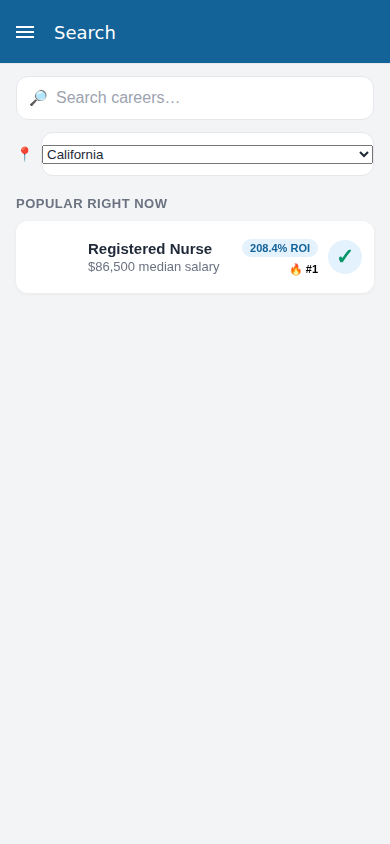
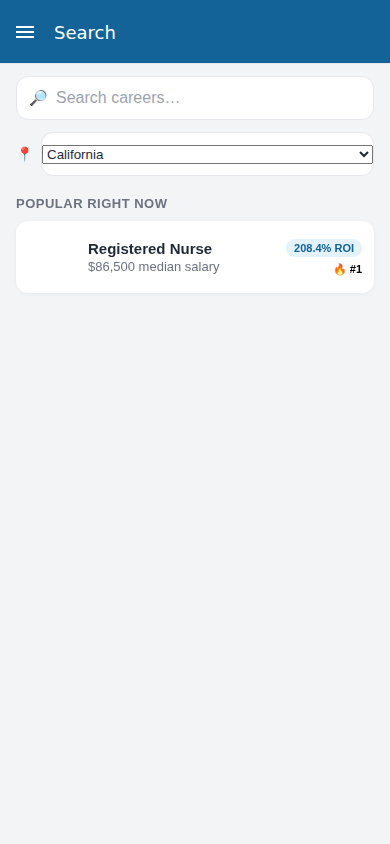
Move search interest action into details

Changed region(s): [[0.6154, 0.2773, 0.9231, 0.3389]]

diff --git a/client/src/screens/SearchScreen.tsx b/client/src/screens/SearchScreen.tsx
@@ -37,8 +37,7 @@ const SKELETON_ROWS = 5;
 const CareerResultRow: React.FC<{
   career: CareerROI;
   onPress: (career: CareerROI) => void;
-  onInterest: (career: CareerROI) => void;
-}> = ({ career, onPress, onInterest }) => {
+}> = ({ career, onPress }) => {
   const theme = useTheme();
   const [imageFailed, setImageFailed] = useState(false);
   const initial = career.occupation_name.charAt(0).toUpperCase();
@@ -47,7 +46,7 @@ const CareerResultRow: React.FC<{
     <View
       style={[styles.row, { backgroundColor: theme.colors.surface }, theme.shadows.subtle]}
     >
-      <TouchableOpacity style={styles.rowContent} onPress={() => onPress(career)} activeOpacity={0.7}>
+      <TouchableOpacity testID={`search-result-${career.id}`} style={styles.rowContent} onPress={() => onPress(career)} activeOpacity={0.7}>
         {imageFailed ? (
           <View style={[styles.thumb, styles.thumbFallback, { backgroundColor: theme.colors.primaryLight }]}>
             <Text style={[styles.thumbFallbackText, { color: theme.colors.primary }]}>{initial}</Text>
@@ -79,16 +78,6 @@ const CareerResultRow: React.FC<{
             </View>
           )}
         </View>
-      </TouchableOpacity>
-      <TouchableOpacity
-        testID={`search-interest-${career.id}`}
-        accessibilityLabel={`Express interest in ${career.occupation_name}`}
-        onPress={() => onInterest(career)}
-        style={[styles.interestButton, { backgroundColor: theme.colors.primaryLight }]}
-        activeOpacity={0.75}
-        hitSlop={{ top: 8, bottom: 8, left: 8, right: 8 }}
-      >
-        <Text style={[styles.interestIcon, { color: theme.colors.success }]}>✓</Text>
       </TouchableOpacity>
     </View>
   );
@@ -268,7 +257,17 @@ export const SearchScreen: React.FC = () => {
   if (detailCareer) {
     return (
       <View style={[styles.container, { backgroundColor: theme.colors.background }]}>
-        <CareerDetailView career={detailCareer} onClose={() => setDetailCareer(null)} />
+        <CareerDetailView
+          career={detailCareer}
+          onClose={() => setDetailCareer(null)}
+          onInterest={() => handleInterestPress(detailCareer)}
+        />
+        <FeedbackModal
+          visible={feedbackCareer !== null}
+          careerName={feedbackCareer?.occupation_name ?? ''}
+          onSubmit={handleFeedbackSubmit}
+          onClose={handleFeedbackClose}
+        />
       </View>
     );
   }
@@ -416,13 +415,13 @@ export const SearchScreen: React.FC = () => {
               </>
             ) : (
               popular.map(career => (
-                <CareerResultRow key={career.id} career={career} onPress={setDetailCareer} onInterest={handleInterestPress} />
+                <CareerResultRow key={career.id} career={career} onPress={setDetailCareer} />
               ))
             )}
           </View>
         ) : showResults ? (
           results!.map(career => (
-            <CareerResultRow key={career.id} career={career} onPress={handleResultPress} onInterest={handleInterestPress} />
+            <CareerResultRow key={career.id} career={career} onPress={handleResultPress} />
           ))
         ) : null}
       </ScrollView>
@@ -462,8 +461,6 @@ interface Styles {
   chipText: TextStyle;
   demandChip: ViewStyle;
   demandChipText: TextStyle;
-  interestButton: ViewStyle;
-  interestIcon: TextStyle;
 
   stateCard: ViewStyle;
   stateEmoji: TextStyle;
@@ -604,18 +601,6 @@ const styles = StyleSheet.create<Styles>({
   demandChipText: {
     fontSize: 11,
     fontWeight: '600',
-  },
-  interestButton: {
-    width: 34,
-    height: 34,
-    borderRadius: 17,
-    alignItems: 'center',
-    justifyContent: 'center',
-    marginLeft: 10,
-  },
-  interestIcon: {
-    fontSize: 22,
-    fontWeight: '700',
   },
   stateCard: {
     borderRadius: 16,

diff --git a/client/src/screens/__tests__/SearchScreen.test.tsx b/client/src/screens/__tests__/SearchScreen.test.tsx
@@ -35,7 +35,8 @@ jest.mock('../../hooks/useTheme', () => ({
 }));
 
 jest.mock('../../components', () => ({
-  CareerDetailView: () => null,
+  CareerDetailView: ({ onInterest }: { onInterest?: () => void }) =>
+    React.createElement('CareerDetailView', { testID: 'career-detail-view', onInterest }),
   Button: () => null,
   FeedbackModal: ({ visible, onSubmit, onClose }: { visible: boolean; onSubmit: (interest: string) => void; onClose: () => void }) =>
     visible ? React.createElement('FeedbackModal', { testID: 'feedback-modal', onSubmit, onClose }) : null,
@@ -75,7 +76,7 @@ describe('SearchScreen', () => {
     }, { timeout: 1000 });
   });
 
-  it('opens interest feedback and saves the career as liked', async () => {
+  it('opens detail view before showing interest feedback and saves the career as liked', async () => {
     const career = {
       id: 42,
       occupation_name: 'Registered Nurse',
@@ -87,8 +88,11 @@ describe('SearchScreen', () => {
     (apiClient.getCareers as jest.Mock).mockResolvedValue({ records: [career] });
     const screen = await render(<SearchScreen />);
 
-    await waitFor(() => expect(screen.getByTestId('search-interest-42')).toBeTruthy());
-    fireEvent.press(screen.getByTestId('search-interest-42'));
+    await waitFor(() => expect(screen.getByTestId('search-result-42')).toBeTruthy());
+    expect(screen.queryByTestId('feedback-modal')).toBeNull();
+    fireEvent.press(screen.getByTestId('search-result-42'));
+    await waitFor(() => expect(screen.getByTestId('career-detail-view')).toBeTruthy());
+    screen.getByTestId('career-detail-view').props.onInterest();
 
     await waitFor(() => expect(screen.getByTestId('feedback-modal')).toBeTruthy());
     fireEvent(screen.getByTestId('feedback-modal'), 'onSubmit', 'very_interested');

diff --git a/client/src/components/CareerDetailView.tsx b/client/src/components/CareerDetailView.tsx
@@ -23,9 +23,10 @@ interface CareerDetailViewProps {
   career: CareerROI;
   images?: CareerImage[];
   onClose?: () => void;
+  onInterest?: () => void;
 }
 
-export const CareerDetailView: React.FC<CareerDetailViewProps> = ({ career, images, onClose }) => {
+export const CareerDetailView: React.FC<CareerDetailViewProps> = ({ career, images, onClose, onInterest }) => {
   const theme = useTheme();
   const imageUrl = getImageUrl(career.occupation_code);
   const [imageFailed, setImageFailed] = useState(false);
@@ -60,6 +61,17 @@ export const CareerDetailView: React.FC<CareerDetailViewProps> = ({ career, imag
           <View style={styles.headerText}>
             <Text style={[styles.occupationName, { color: theme.colors.text.primary }]}>{career.occupation_name}</Text>
           </View>
+          {onInterest && (
+            <TouchableOpacity
+              testID="career-detail-interest"
+              accessibilityLabel={`Express interest in ${career.occupation_name}`}
+              onPress={onInterest}
+              style={[styles.interestButton, { backgroundColor: theme.colors.primaryLight }]}
+              activeOpacity={0.75}
+            >
+              <Text style={[styles.interestIcon, { color: theme.colors.success }]}>✓</Text>
+            </TouchableOpacity>
+          )}
         </View>
 
         {!imageFailed && (
@@ -182,6 +194,17 @@ const styles = StyleSheet.create({
   headerText: {
     flex: 1,
   } as ViewStyle,
+  interestButton: {
+    width: 40,
+    height: 40,
+    borderRadius: 20,
+    alignItems: 'center',
+    justifyContent: 'center',
+  } as ViewStyle,
+  interestIcon: {
+    fontSize: 24,
+    fontWeight: '700',
+  } as TextStyle,
   dayInLifeSection: {
     marginBottom: 20,
   } as ViewStyle,

diff --git a/client/src/components/FeedbackModal.tsx b/client/src/components/FeedbackModal.tsx
@@ -40,7 +40,7 @@ export const FeedbackModal: React.FC<FeedbackModalProps> = ({
   };
 
   return (
-    <Modal visible={visible} transparent animationType="fade">
+    <Modal visible={visible} transparent animationType="none">
       <TouchableWithoutFeedback onPress={handleClose}>
         <View style={styles.overlay}>
           <TouchableWithoutFeedback>
